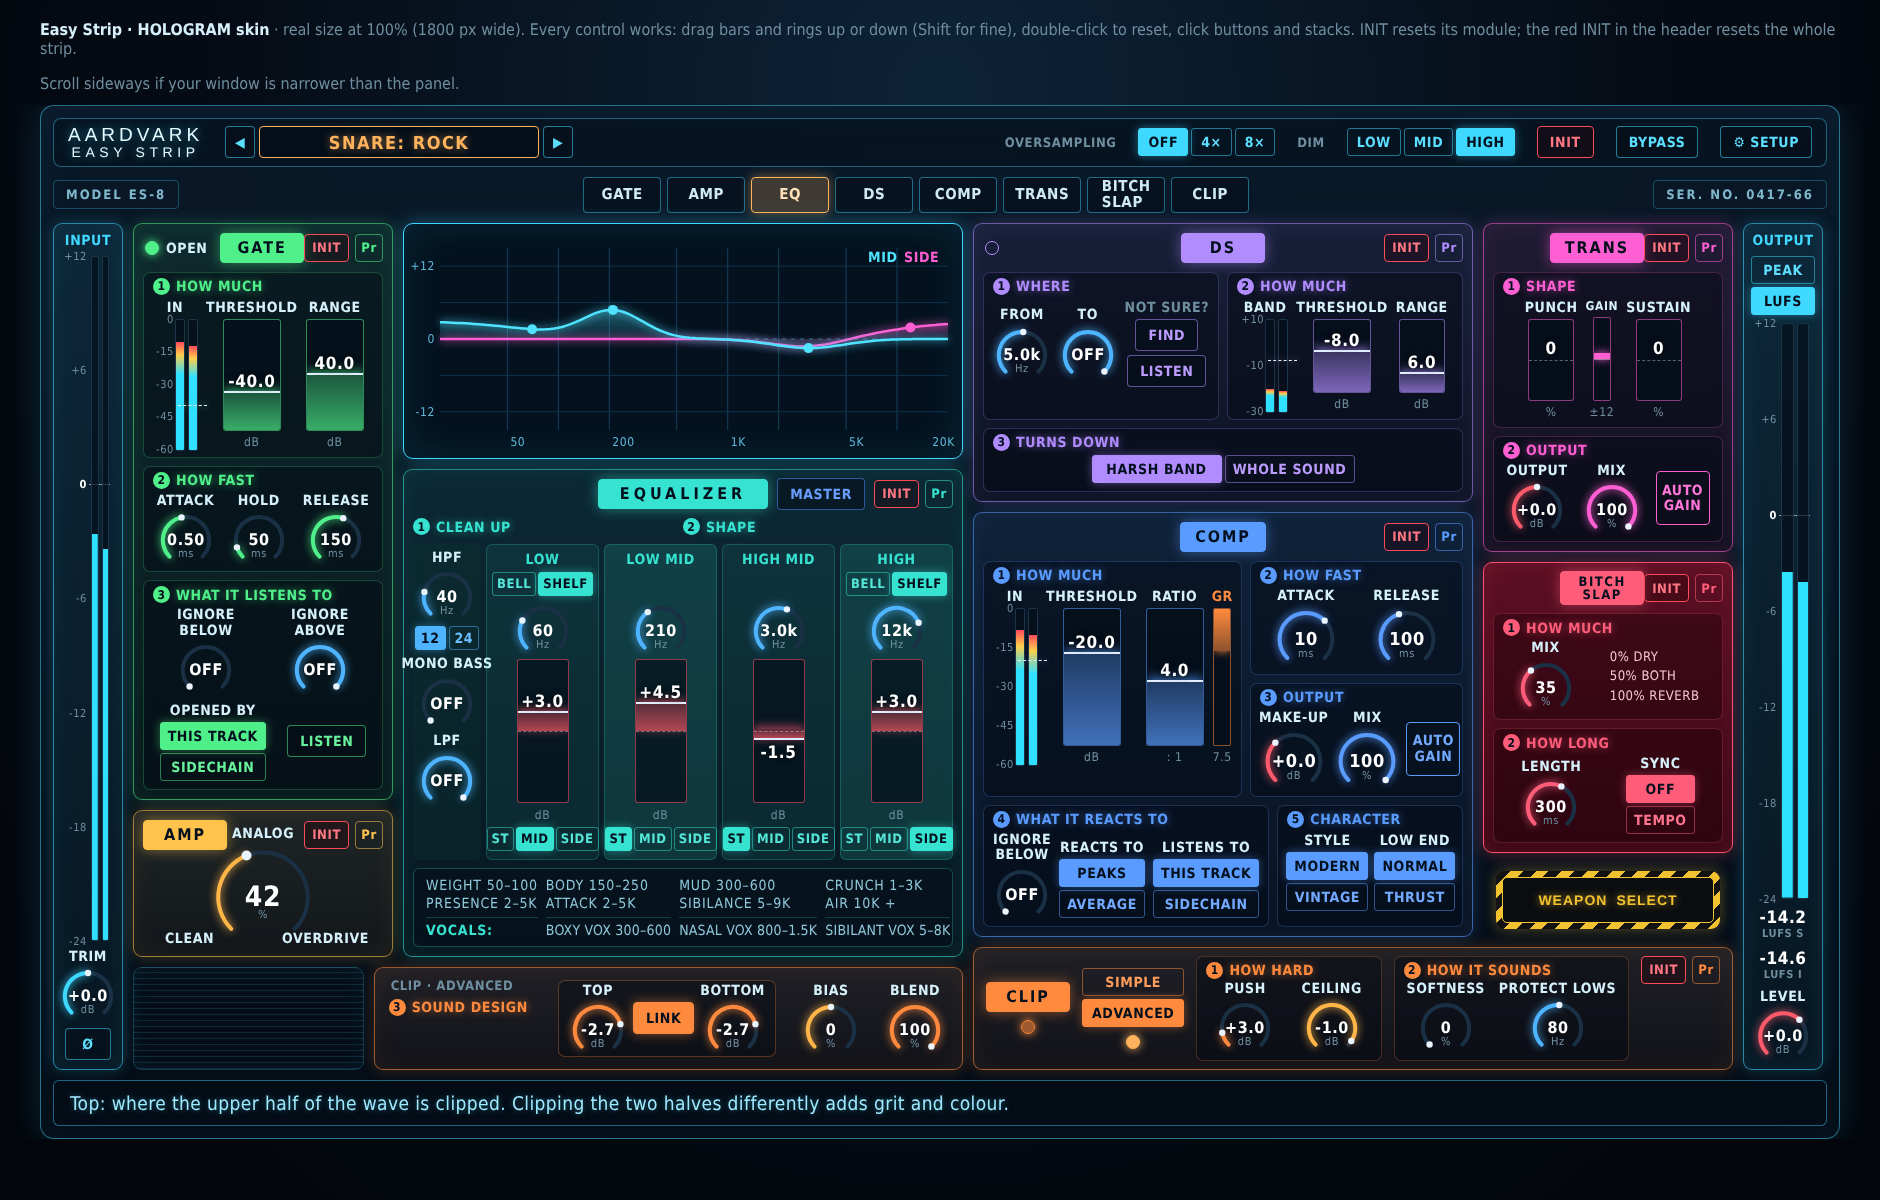
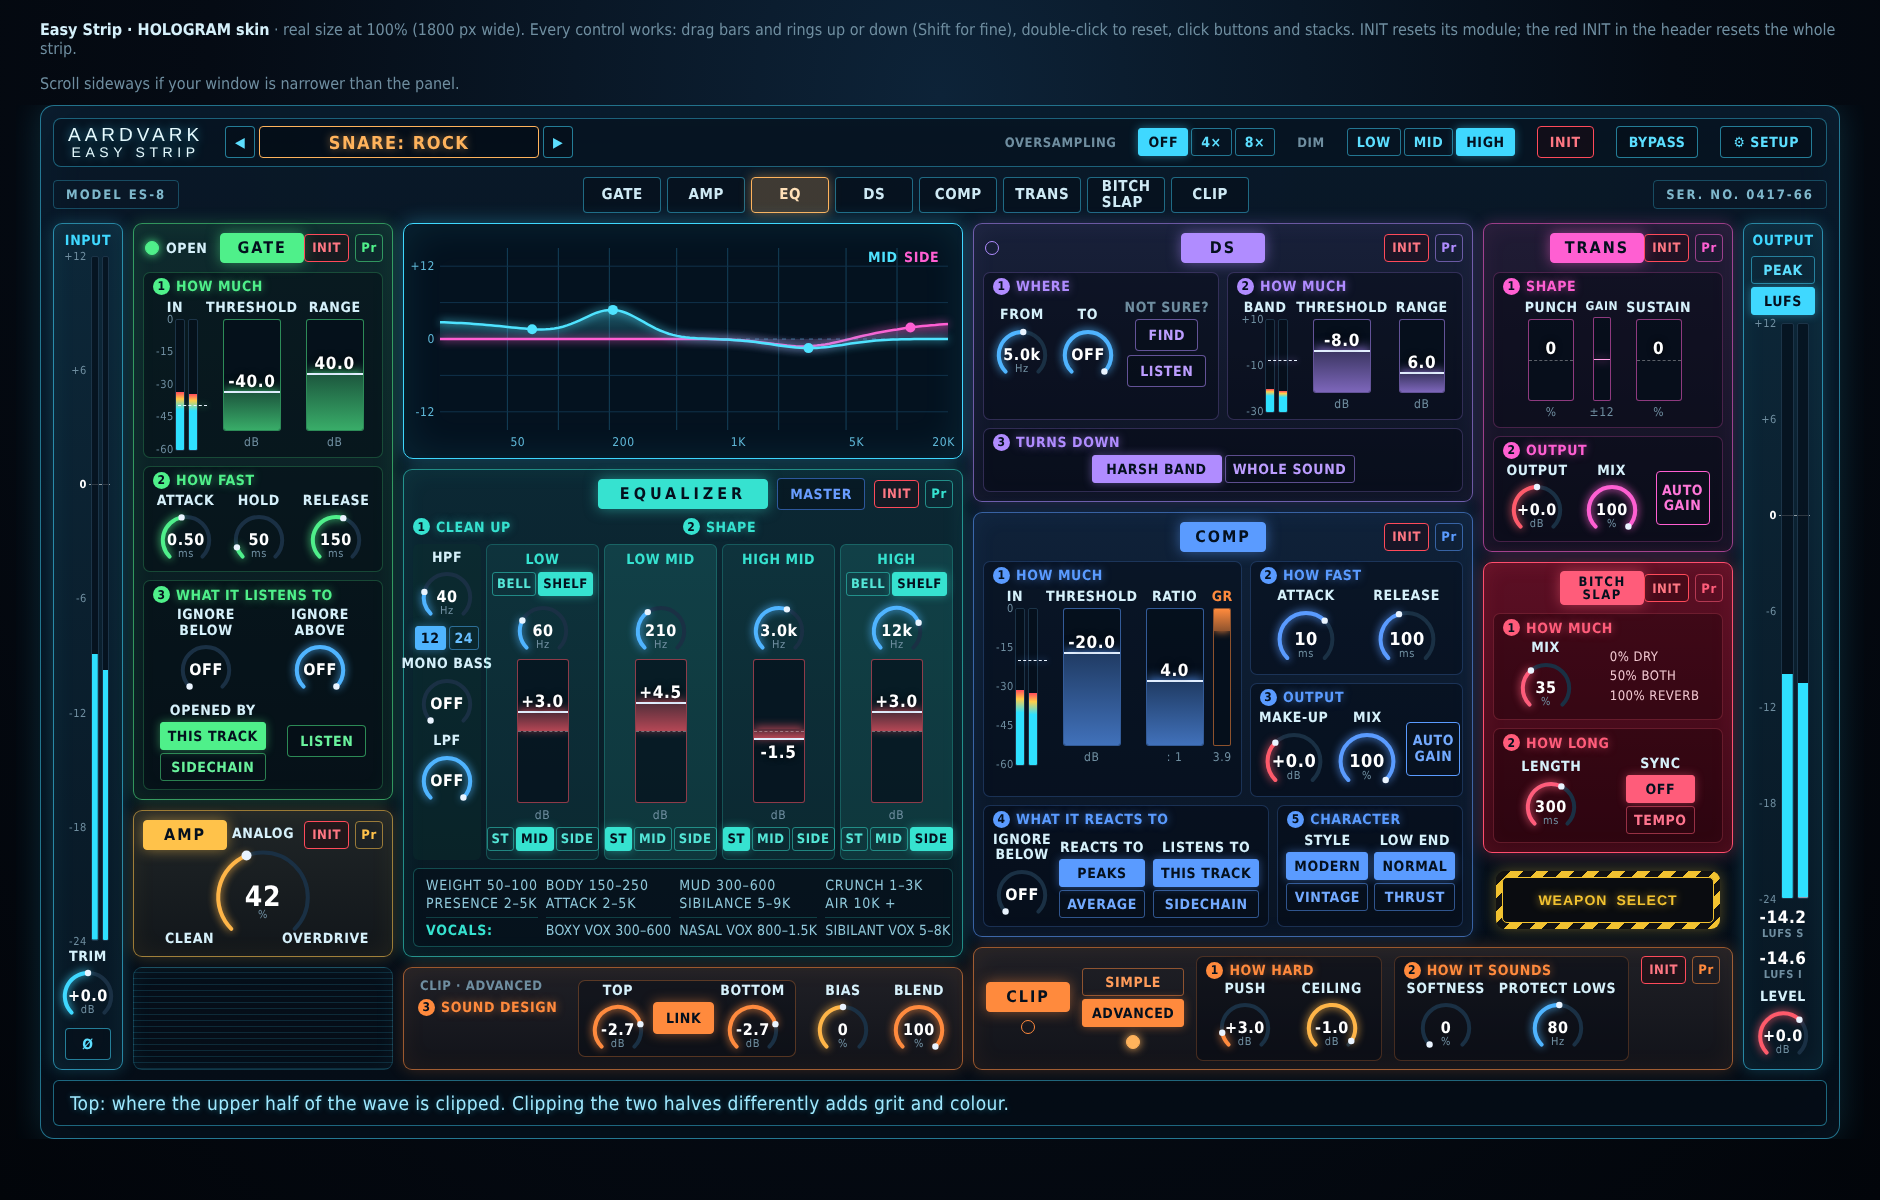
DevTools: Clip ADVANCED row lined up under the EQ (HOLOGRAM) [skip ci]
Claude-Session: https://claude.ai/code/session_01KRn7UbAFWVf9LHLqhN9U6j

diff --git a/DevTools/Look/Strip/strip_wireframe_hologram_digital.html b/DevTools/Look/Strip/strip_wireframe_hologram_digital.html
@@ -138,12 +138,12 @@ body{margin:0;background:radial-gradient(ellipse at 50% 8%,#0d2338 0%,#050b14 55
 .clip{flex-direction:row;align-items:stretch;gap:12px;padding:8px 12px}
 .clip .side{display:flex;flex-direction:column;align-items:center;justify-content:center;gap:8px}
 .clip .sec{flex:1;padding-top:24px}
-.bay{display:flex;gap:10px;min-height:0}.bay .scan{flex:1}.bay .cadv{flex:none}
+.bay{display:grid;grid-template-columns:260px 560px;gap:10px;min-height:0}.bay .scan{grid-column:1/3}.bay.adv .scan{grid-column:1}.bay .cadv{grid-column:2;grid-row:1;justify-content:space-between}
 [hidden]{display:none!important}
-.cadv{flex-direction:row!important;align-items:center;gap:30px;padding:6px 18px 6px 14px}
+.cadv{flex-direction:row!important;align-items:center;gap:16px;padding:6px 14px}
 .cadv .ahd{display:flex;flex-direction:column;gap:6px;align-self:flex-start;padding-top:4px}
 .cadv .ahd .sh{position:static}
-.cadv .acts{display:flex;align-items:center;gap:26px}
+.cadv .acts{display:flex;align-items:center;gap:18px}
 .cadv .unit{display:flex;align-items:center;gap:6px;padding:2px 10px;border:1px solid color-mix(in srgb,var(--t) 30%,transparent);border-radius:7px;background:rgba(2,8,16,.35)}
 .adtag{color:var(--dim);font-weight:600;font-size:13px;padding-left:2px}
 .eqh{display:grid;grid-template-columns:68px repeat(4,minmax(0,1fr));gap:5px;height:18px}
@@ -446,7 +446,7 @@ function linked(c){var p=c.el.dataset.link;if(p&&document.getElementById('kLink'
 function reset(scope){ctl.forEach(function(c){if(scope.contains(c.el)){c.n=c.def;draw(c)}});
  scope.querySelectorAll('.tgl').forEach(function(g){g.querySelectorAll('span').forEach(function(k,i){k.classList.toggle('on',g._def[i])})});
  scope.querySelectorAll('.tg').forEach(function(b){b.classList.toggle('on',b._def)});if(scope.classList.contains('clip'))reset(document.getElementById('cAdv'));view()}
-function view(){var adv=document.querySelectorAll('#kView span')[1].classList.contains('on');document.getElementById('cAdv').hidden=!adv}
+function view(){var adv=document.querySelectorAll('#kView span')[1].classList.contains('on');document.getElementById('cAdv').hidden=!adv;document.querySelector('.bay').classList.toggle('adv',adv)}
 document.querySelectorAll('#kView span').forEach(function(k){k.addEventListener('click',view)});
 function flash(b){b.classList.add('flash');setTimeout(function(){b.classList.remove('flash')},180)}
 document.querySelectorAll('.mod .init').forEach(function(b){b.setAttribute('data-tip','Init: puts every setting in this module back to its default. Nothing else on the strip changes.');b.addEventListener('mouseenter',function(){hint(b)});b.addEventListener('click',function(){reset(b.closest('.mod'));flash(b)})});
